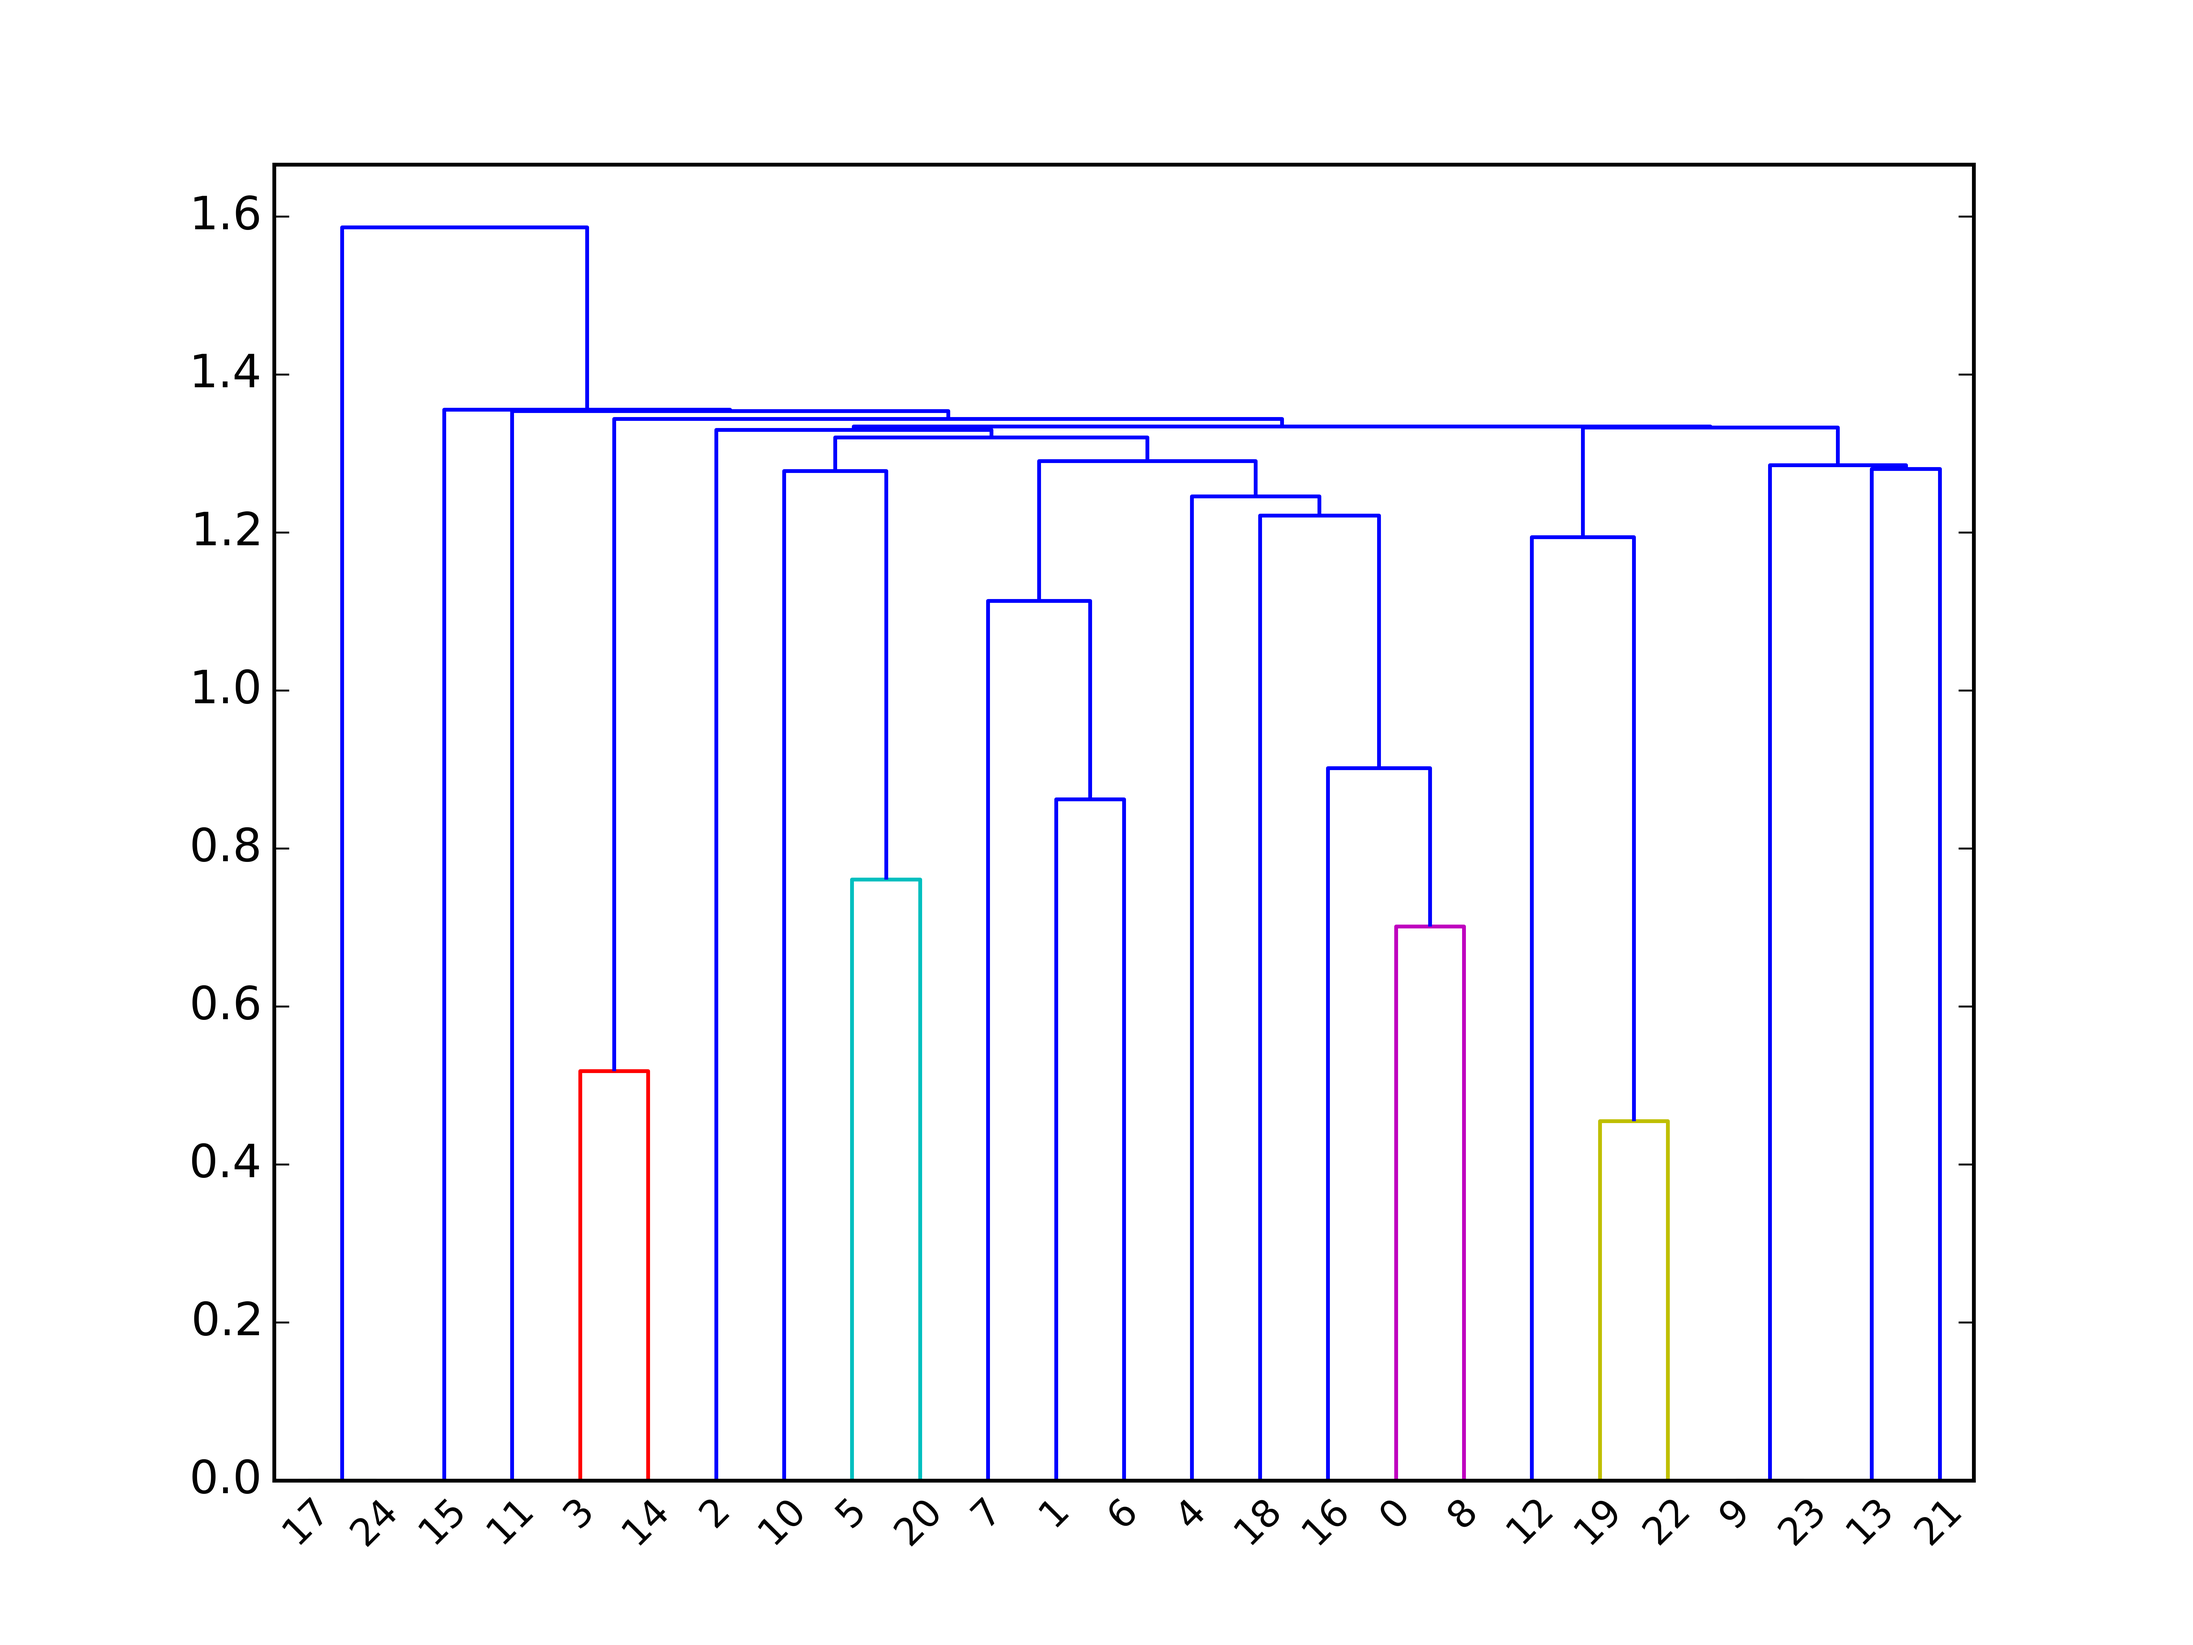
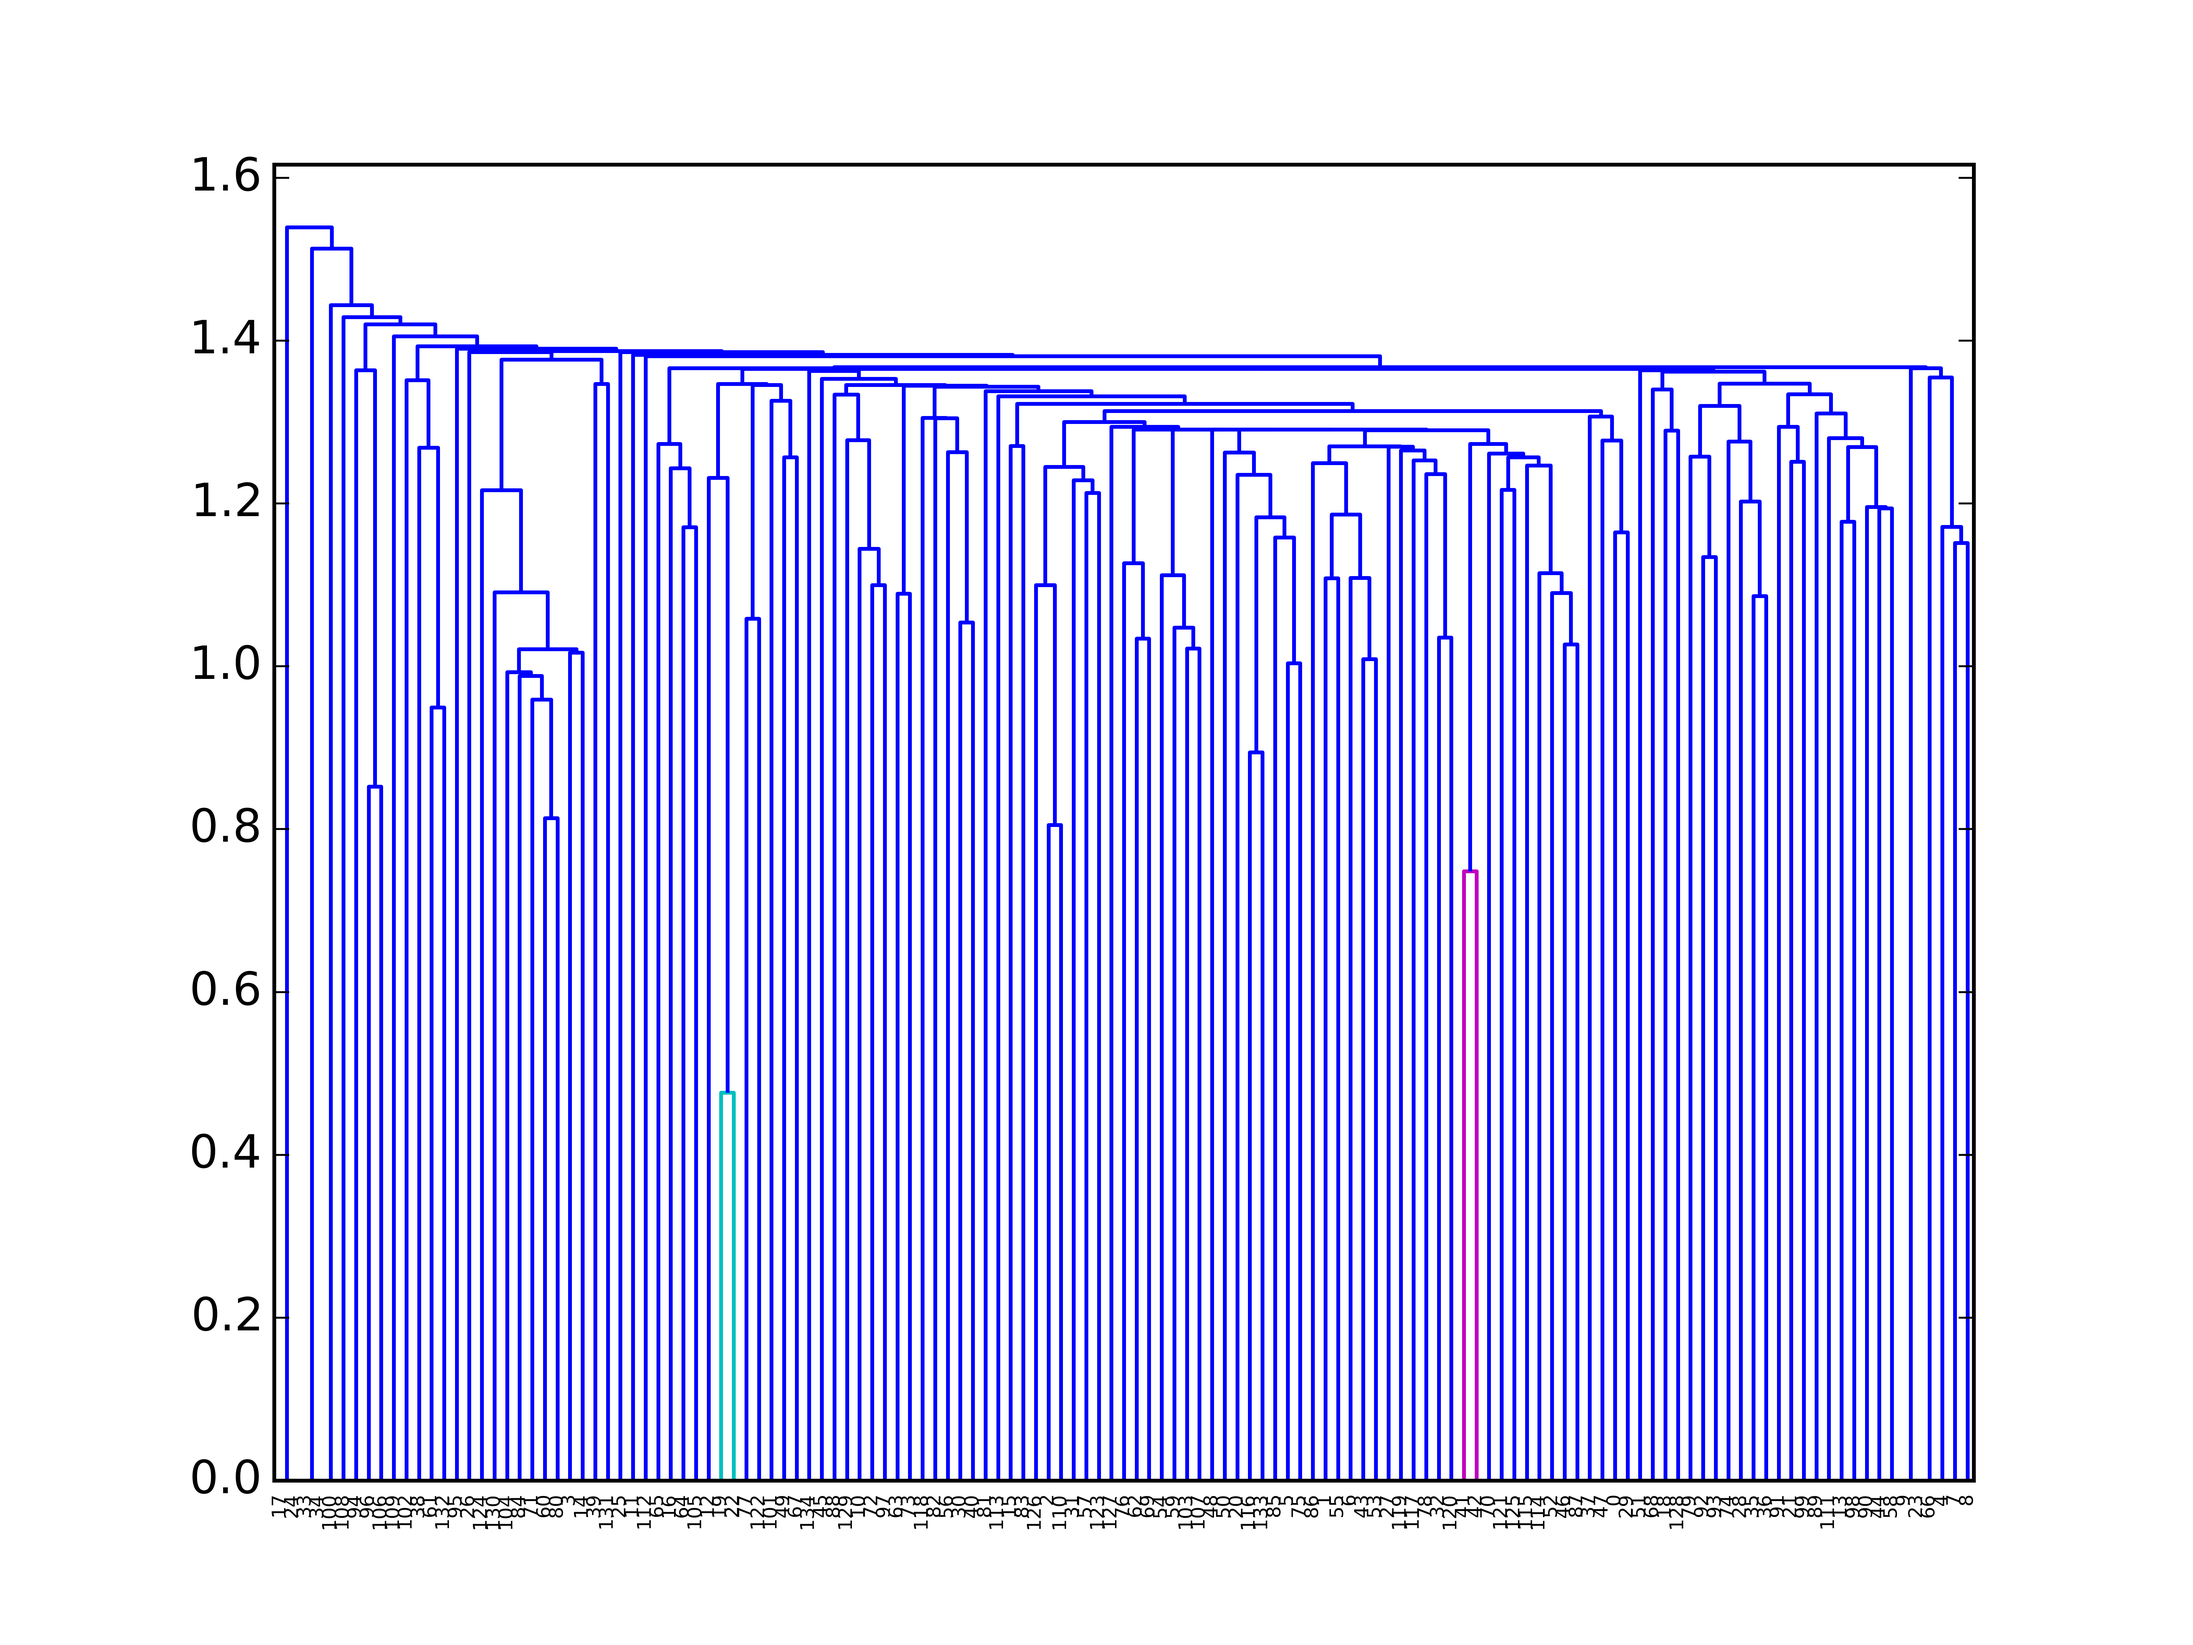
Update the configuration manager; updated the hierchical cluster; Added more rss

Changed region(s): [[0.0938, 0.0938, 0.9062, 0.9375]]

diff --git a/app.py b/app.py
@@ -7,7 +7,7 @@ app = Flask(__name__)
 def keywords():
     brain = ProvidentiaBrain()
     k = brain.fetch_top_keywords()
-    return jsonify(data=k)
+    return jsonify(data={'entries':k, 'count':len(k)})
 
 
 @app.route('/')
@@ -16,6 +16,7 @@ def top_keywords():
     data = brain.winsdom()
     clusters = data.get('clusters', [])
     titles = data.get('titles', [])
+    k = data.get('keywords',[])
 
     c = {}
     keys = []
@@ -24,7 +25,9 @@ def top_keywords():
        for id in clusters[key]:
          documents.append({'id':id,'title:':titles[id]})
        c[key] = documents
-    return jsonify(data={ 'keywords':data.get('keywords',[]), 'clusters':c, 'titles':titles})
+    return jsonify(data={ 'keywords':{'entries':k, 'count':len(k)},
+                          'clusters':c,
+                          'titles':{'entries':titles, 'count':len(titles)}})
 
 if __name__ == '__main__':
     app.debug = True

diff --git a/providentia/configurations/config.py b/providentia/configurations/config.py
@@ -5,19 +5,19 @@ class ConfigurationManager(object):
         pass
     @property
     def NUMBER_KEYWORDS(self):
-        return os.environ.get('WINSDOM_NUMBER_KEYWORDS', 4)
+        return int(os.environ.get('WINSDOM_NUMBER_KEYWORDS', 4))
 
     @property
     def HIERARCHICAL_CLUSTERING_T(self):
-        return os.environ.get('HIERARCHICAL_CLUSTERING_T', 0.8)
+        return float(os.environ.get('HIERARCHICAL_CLUSTERING_T', 0.8))
 
     @property
     def HIERARCHICAL_CLUSTERING_IMAGE(self):
-        return os.environ.get('HIERARCHICAL_CLUSTERING_IMAGE', 'hcluster.jpg')
+        return os.environ.get('HIERARCHICAL_CLUSTERING_IMAGE', 'hcluster.png')
 
     @property
     def HIERARCHICAL_CLUSTERING_DPI(self):
-        return os.environ.get('HIERARCHICAL_CLUSTERING_DPI', 800)
+        return int(os.environ.get('HIERARCHICAL_CLUSTERING_DPI', 800))
 
     @property
     def RSS_DATA_SOURCE_TYPE(self):

diff --git a/providentia/core/ml/clustering/hierarchical.py b/providentia/core/ml/clustering/hierarchical.py
@@ -6,7 +6,7 @@ class HierarichicalCluster(object):
     """
     Agglomerative or hierarchical clustering.
     Clusters will grown by fusing neighboring documents to form a tree.
-    We can choose a similarity threshold to prune the tree to a set of final clusters. 
+    We can choose a similarity threshold to prune the tree to a set of final clusters.
     """
     def __init__(self):
         config_manger = ConfigurationManager()
